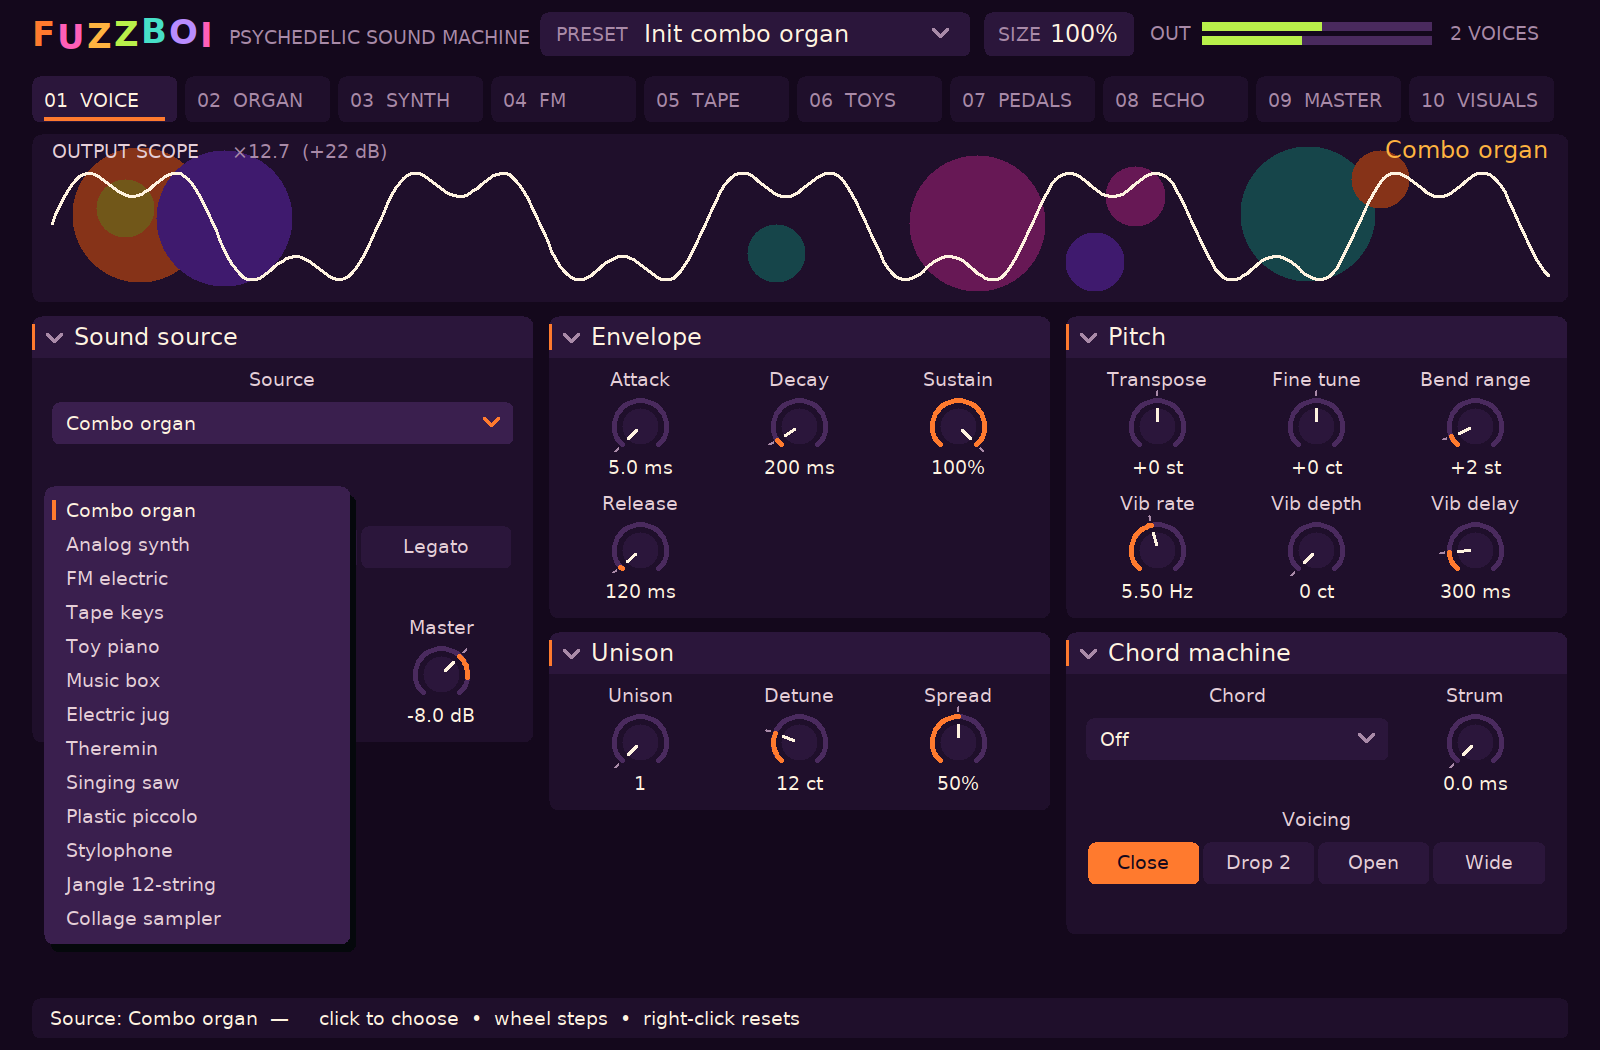
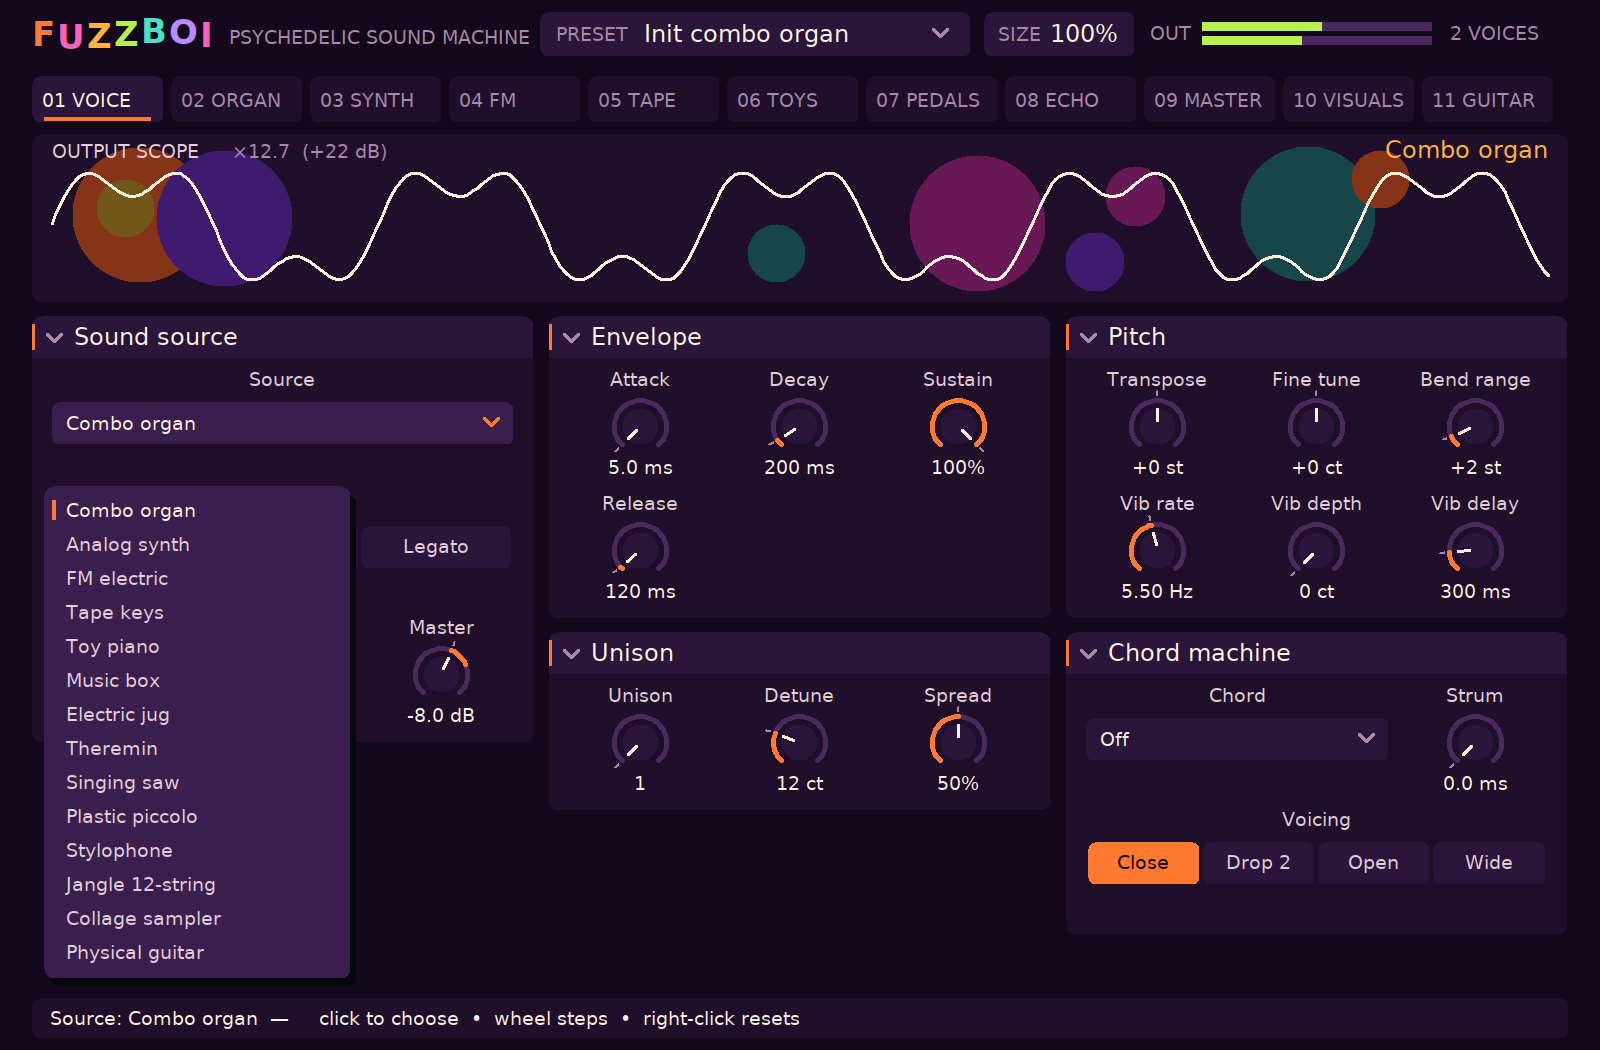
Refresh the screenshots and docs for the GUITAR page and the Bass VI
Every editor page is re-rendered with fuzzboi-ui-preview (the tab bar now has GUITAR), and the
GUITAR page gets its own screenshot, taken with a guitar preset so its cards are active. The
README links it and shows the VISUALS page; the preset count is 124 and the Bass VI preset is
listed with the guitar's. GUITAR.md shows the page and counts seven presets. The missing
advertised_parameters.feature, which features/README.md already mapped to advertised_tests,
is written.

diff --git a/README.md b/README.md
@@ -5,13 +5,12 @@ a native editor on all three (X11, Win32, Cocoa).
 
 ![The VOICE page: the liquid-light output scope above the source, envelope and pitch cards](docs/screenshots/page1.png)
 
-
 Every page: [VOICE](docs/screenshots/page1.png), [ORGAN](docs/screenshots/page2.png),
 [SYNTH](docs/screenshots/page3.png), [FM](docs/screenshots/page4.png),
 [TAPE](docs/screenshots/page5.png), [TOYS](docs/screenshots/page6.png),
 [PEDALS](docs/screenshots/page7.png), [ECHO](docs/screenshots/page8.png),
-[MASTER](docs/screenshots/page9.png), [VISUALS](docs/screenshots/page10.png), and the
-[source menu](docs/screenshots/menu.png).
+[MASTER](docs/screenshots/page9.png), [VISUALS](docs/screenshots/page10.png),
+[GUITAR](docs/screenshots/page11.png), and the [source menu](docs/screenshots/menu.png).
 
 ## What is in it
 
@@ -50,14 +49,15 @@ ducking of the whole mix, echoes included), backwards, lo-fi, and the master tap
 (drive, wow, flutter, hiss, bandwidth, and up to six cassette-to-cassette generations), and an
 output limiter at -2 dBFS so every preset can sit at the same loudness (-16 LUFS momentary) whatever its crest factor.
 
-**A hundred and twenty-three presets**: from "Bright Vox organ" and "Electric jug" through
+**A hundred and twenty-four presets**: from "Bright Vox organ" and "Electric jug" through
 "Eight-theremin swarm", "Marimba-repeat organ", "Quarter-tone lead", "Polymoog strings", "Warbling
 tape collage" and "Space Echo dub" to the second round's "Pumping Juno pad", "Phased octave lead",
 "Pumping pluck bass", "Strummed maj 7 jangle", "Omnichord dream", "Strummed FM bells" and the sample
 bank presets, and the fourth round's shoegaze, fuzz, brown-sound, drone and chillwave sounds: "Reverse-gate
 glide", "Shimmer chime wall", "Jawari buzz raga", "Jet-flanged Plexi", "Dive-bomb Plexi", "Sub-octave doom
-drone", "Swelling tape loop", "Sunbleached Juno pad" and more, and six for the physical guitar ("Open-D folk
-steel", "Nylon fingerstyle", "Clean neck single-coil", "Bridge-pickup twang", "Humbucker crunch", "Palm-muted chug"), plus a physical-guitar twin of each of the
+drone", "Swelling tape loop", "Sunbleached Juno pad" and more, and seven for the physical guitar ("Open-D folk
+steel", "Nylon fingerstyle", "Clean neck single-coil", "Bridge-pickup twang", "Humbucker crunch", "Palm-muted chug",
+"Bass VI (phys)"), plus a physical-guitar twin of each of the
 27 jangle presets ("Phased 12-str (phys)", "Acoustic 12 (phys)", "Variac Plexi (phys)", ...), the
 12-string ones playing their octave courses on a second real string through the Octaves chord. Every preset is measured against the [quality bar](docs/QUALITY.md) by
 `build/fuzzboi-preset-audit` and held to it by the test suite. Sixteen voices, poly/mono/legato,
@@ -69,12 +69,12 @@ piano, music box, theremin, an Omnichord, a harmonium, a ghanta bell, a singing 
 gong, shortwave, temple bowls, a geyser and rain) sits in `assets/samples/` with its licences and
 checksums in the manifest; see [docs/SAMPLES.md](docs/SAMPLES.md).
 
-Sample loading and harvesting is in [docs/SAMPLES.md](docs/SAMPLES.md)
-
 The output scope triggers on each cycle and amplifies quiet playing (up to +24 dB, gain shown)
 so the waveform is always readable. The VISUALS page is a MilkDrop/projectM-style feedback
 visualizer patterned after LOAMP's: eight presets (tunnel, kaleidoscope, lava lamp, starburst...)
 driven by the output's bass, mid and treble, with previous / next / random / auto cycling.
+
+![The VISUALS page: the Liquid Tunnel preset, a feedback tunnel ringed by the output waveform](docs/screenshots/page10.png)
 
 ## Building
 

diff --git a/docs/GUITAR.md b/docs/GUITAR.md
@@ -19,6 +19,10 @@ pluck, bend and damp its strings).
 Eight tunings (standard, drop D, half step down, DADGAD, open G, D, E, C), a capo, and the player:
 pluck point in mm from the saddle, finger to plectrum, palm mute, string age, hand position.
 
+The instrument and the player sit on the editor's GUITAR page:
+
+![The GUITAR page: instrument, right hand, pickups and left hand](screenshots/page11.png)
+
 ## What is simulated
 
 - **Strings from the maker's data.** Mass per length is D'Addario's published unit weight; the
@@ -64,11 +68,11 @@ pluck point in mm from the saddle, finger to plectrum, palm mute, string age, ha
 
 ## Presets
 
-Six presets are written for it ("Open-D folk steel" to "Palm-muted chug"), and each of the 27
-presets built on the Jangle 12-string has a twin ending in "(phys)" that keeps its effects,
-envelope and voice settings and translates the jangle's controls: body 50% or more becomes the
-steel dreadnought, fuzzed presets the humbucker, the rest the single-coil; the pick position
-becomes the same fraction of the string as a pluck point in mm; brightness becomes pick hardness
+Seven presets are written for it ("Open-D folk steel" to "Palm-muted chug", and "Bass VI
+(phys)"), and each of the 27 presets built on the Jangle 12-string has a twin ending in
+"(phys)" that keeps its effects, envelope and voice settings and translates the jangle's
+controls: body 50% or more becomes the steel dreadnought, fuzzed presets the humbucker, the rest
+the single-coil; the pick position becomes the same fraction of the string as a pluck point in mm; brightness becomes pick hardness
 (bright or fuzzed presets on the bridge pickup); short decays become palm muting. The guitar has
 six strings, so a 12-string's octave courses are played through the chord machine's Octaves
 setting: each key sounds its note and the octave on two real strings, as a course does.
